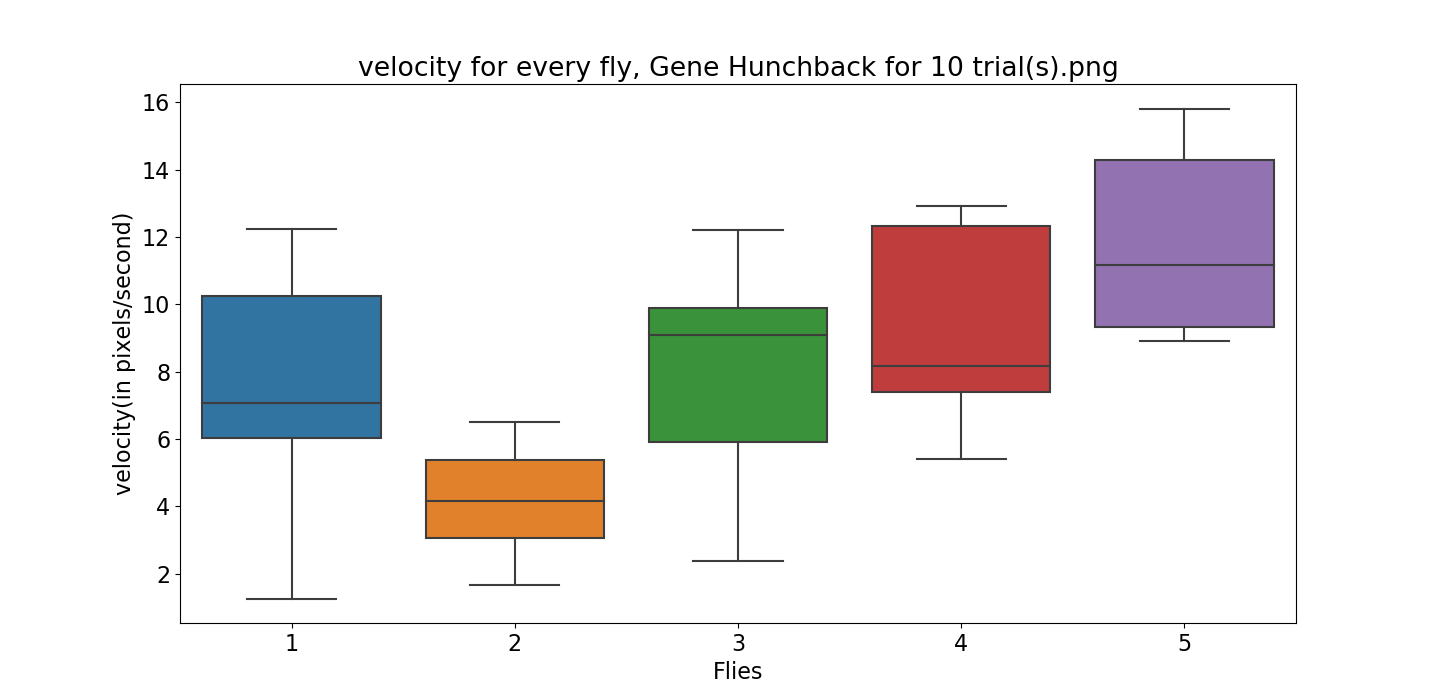
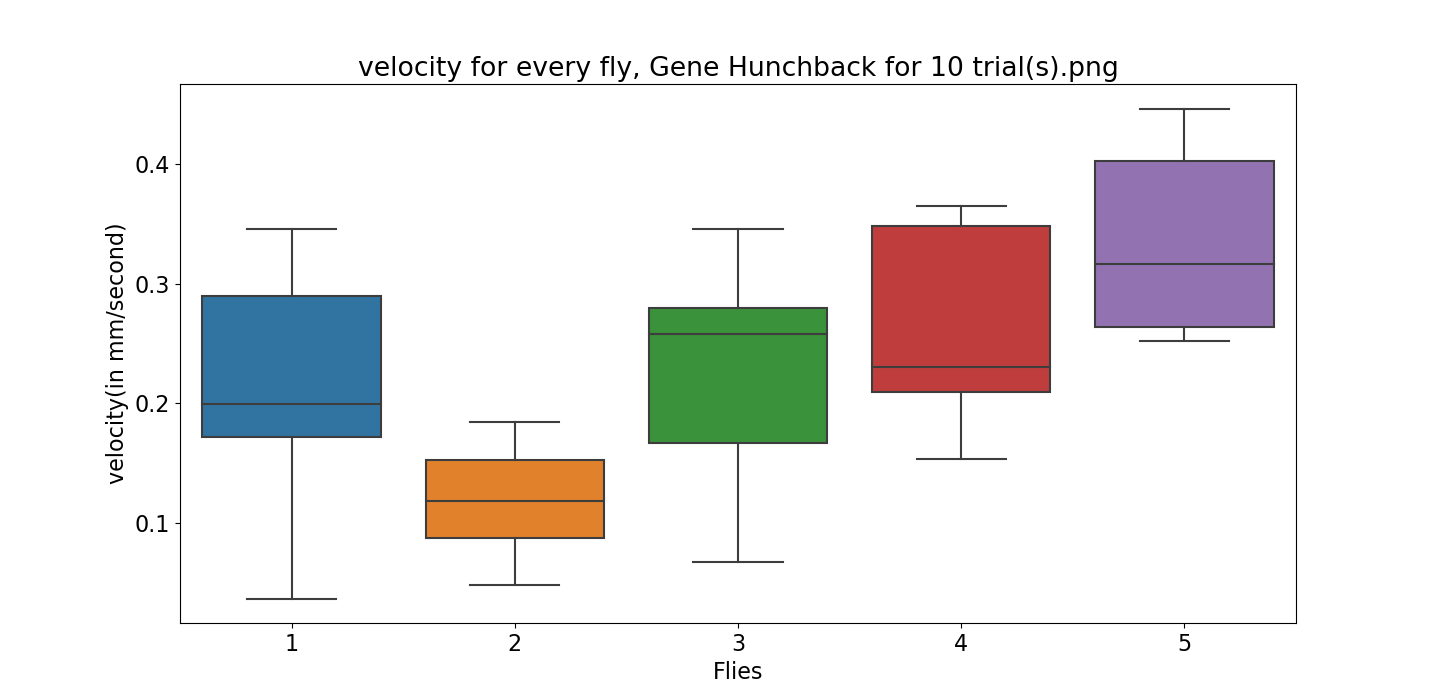
ADD velocity images in mm/s and ADD comments in the code

diff --git a/mainAnalysis.py b/mainAnalysis.py
@@ -23,13 +23,15 @@ box4_size = [600, 700, 300, 1050]
 box5_size = [770, 870, 300, 1050]
 
 # average size of the lanes (in pixels)
-size_1_x = np.mean([box1_size[1]-box1_size[0], 
+# this is used to calculate the velocity in mm/s instead of 
+# pixels/s, which is a more informative measure 
+size_dorsal_x = np.mean([box1_size[1]-box1_size[0], 
                       box2_size[1]-box2_size[0], 
                       box3_size[1]-box3_size[0], 
                       box4_size[1]-box4_size[0], 
                       box5_size[1]-box5_size[0]])
 
-size_1_y = np.mean([box1_size[3]-box1_size[2], 
+size_dorsal_y = np.mean([box1_size[3]-box1_size[2], 
                       box2_size[3]-box2_size[2], 
                       box3_size[3]-box3_size[2], 
                       box4_size[3]-box4_size[2], 
@@ -60,13 +62,15 @@ box4_size = [615, 730, 300, 1050]
 box5_size = [785, 890, 300, 1050]
 
 # average size of the lanes (in pixels)
-size_2_x = np.mean([box1_size[1]-box1_size[0], 
+# this is used to calculate the velocity in mm/s instead of 
+# pixels/s, which is a more informative measure 
+size_gfp_x = np.mean([box1_size[1]-box1_size[0], 
                       box2_size[1]-box2_size[0], 
                       box3_size[1]-box3_size[0], 
                       box4_size[1]-box4_size[0], 
                       box5_size[1]-box5_size[0]])
 
-size_2_y = np.mean([box1_size[3]-box1_size[2], 
+size_gfp_y = np.mean([box1_size[3]-box1_size[2], 
                       box2_size[3]-box2_size[2], 
                       box3_size[3]-box3_size[2], 
                       box4_size[3]-box4_size[2], 
@@ -96,13 +100,15 @@ box4_size = [550, 680, 300, 1050]
 box5_size = [730, 835, 300, 1050]
 
 # average size of the lanes (in pixels)
-size_3_x = np.mean([box1_size[1]-box1_size[0], 
+# this is used to calculate the velocity in mm/s instead of 
+# pixels/s, which is a more informative measure 
+size_eagdn_x = np.mean([box1_size[1]-box1_size[0], 
                       box2_size[1]-box2_size[0], 
                       box3_size[1]-box3_size[0], 
                       box4_size[1]-box4_size[0], 
                       box5_size[1]-box5_size[0]])
 
-size_3_y = np.mean([box1_size[3]-box1_size[2], 
+size_eagdn_y = np.mean([box1_size[3]-box1_size[2], 
                       box2_size[3]-box2_size[2], 
                       box3_size[3]-box3_size[2], 
                       box4_size[3]-box4_size[2], 
@@ -132,13 +138,15 @@ box4_size = [595, 715, 300, 1075]
 box5_size = [760, 880, 300, 1070]
 
 # average size of the lanes (in pixels)
-size_4_x = np.mean([box1_size[1]-box1_size[0], 
+# this is used to calculate the velocity in mm/s instead of 
+# pixels/s, which is a more informative measure 
+size_tnt_x = np.mean([box1_size[1]-box1_size[0], 
                       box2_size[1]-box2_size[0], 
                       box3_size[1]-box3_size[0], 
                       box4_size[1]-box4_size[0], 
                       box5_size[1]-box5_size[0]])
 
-size_4_y = np.mean([box1_size[3]-box1_size[2], 
+size_tnt_y = np.mean([box1_size[3]-box1_size[2], 
                       box2_size[3]-box2_size[2], 
                       box3_size[3]-box3_size[2], 
                       box4_size[3]-box4_size[2], 
@@ -168,13 +176,15 @@ box4_size = [590, 715, 305, 1075]
 box5_size = [760, 880, 305, 1075]
 
 # average size of the lanes (in pixels)
-size_5_x = np.mean([box1_size[1]-box1_size[0], 
+# this is used to calculate the velocity in mm/s instead of 
+# pixels/s, which is a more informative measure 
+size_shalrna_x = np.mean([box1_size[1]-box1_size[0], 
                       box2_size[1]-box2_size[0], 
                       box3_size[1]-box3_size[0], 
                       box4_size[1]-box4_size[0], 
                       box5_size[1]-box5_size[0]])
 
-size_5_y = np.mean([box1_size[3]-box1_size[2], 
+size_shalrna_y = np.mean([box1_size[3]-box1_size[2], 
                       box2_size[3]-box2_size[2], 
                       box3_size[3]-box3_size[2], 
                       box4_size[3]-box4_size[2], 
@@ -204,12 +214,14 @@ box4_size = [675, 795, 270, 1035]
 box5_size = [] # No Flies
 
 # average size of the lanes (in pixels)
-size_6_x = np.mean([box1_size[1]-box1_size[0], 
+# this is used to calculate the velocity in mm/s instead of 
+# pixels/s, which is a more informative measure 
+size_imptnt_x = np.mean([box1_size[1]-box1_size[0], 
                       box2_size[1]-box2_size[0], 
                       box3_size[1]-box3_size[0], 
                       box4_size[1]-box4_size[0]])
 
-size_6_y = np.mean([box1_size[3]-box1_size[2], 
+size_imptnt_y = np.mean([box1_size[3]-box1_size[2], 
                       box2_size[3]-box2_size[2], 
                       box3_size[3]-box3_size[2], 
                       box4_size[3]-box4_size[2]])
@@ -238,13 +250,15 @@ box4_size = [565, 685, 300, 1050]
 box5_size = [730, 845, 300, 1050]
 
 # average size of the lanes (in pixels)
-size_7_x = np.mean([box1_size[1]-box1_size[0], 
+# this is used to calculate the velocity in mm/s instead of 
+# pixels/s, which is a more informative measure 
+size_hunchback_x = np.mean([box1_size[1]-box1_size[0], 
                       box2_size[1]-box2_size[0], 
                       box3_size[1]-box3_size[0], 
                       box4_size[1]-box4_size[0], 
                       box5_size[1]-box5_size[0]])
 
-size_7_y = np.mean([box1_size[3]-box1_size[2], 
+size_hunchback_y = np.mean([box1_size[3]-box1_size[2], 
                       box2_size[3]-box2_size[2], 
                       box3_size[3]-box3_size[2], 
                       box4_size[3]-box4_size[2], 
@@ -253,21 +267,12 @@ size_7_y = np.mean([box1_size[3]-box1_size[2],
 # to generate the .csv files with the centroids and head positions
 #crop.analyzeImages(path, name_type, box1_size, box2_size, box3_size, box4_size, box5_size)
 
-# average size of all the lanes, for all the different genetic strains
-# this is an approximation used to calculate the velocity in mm/s instead of 
-# pixels/s, which is a more informative measure 
-avg_size_x = np.mean([size_1_x, size_2_x, size_3_x, size_4_x, size_5_x, size_6_x, size_7_x])
-avg_size_y = np.mean([size_1_y, size_2_y, size_3_y, size_4_y, size_5_y, size_6_y, size_7_y])
-
-
-## Create the plots with the flies velocities 
-
-plots.velocity_analysis("Dorsal",10)
-plots.velocity_analysis("GFP",10)
-plots.velocity_analysis("EagDN",10)
-plots.velocity_analysis("TNT",10)
-plots.velocity_analysis("ShalRNA",10)
-plots.velocity_analysis("IMPTNT",10)
-plots.velocity_analysis("Hunchback",10)
-
+## Create the plots for the flies' velocities 
+plots.velocity_analysis("Dorsal",10, size_dorsal_x, size_dorsal_y)
+plots.velocity_analysis("GFP",10, size_gfp_x, size_gfp_y)
+plots.velocity_analysis("EagDN",10, size_eagdn_x, size_eagdn_y)
+plots.velocity_analysis("TNT",10, size_tnt_x, size_tnt_y)
+plots.velocity_analysis("ShalRNA",10, size_shalrna_x, size_shalrna_y)
+plots.velocity_analysis("IMPTNT",10, size_imptnt_x, size_imptnt_y)
+plots.velocity_analysis("Hunchback",10, size_hunchback_x, size_hunchback_y)
 

diff --git a/plots.py b/plots.py
@@ -23,7 +23,7 @@ def reformatCsv(folder, flies_to_remove):
     heads.to_csv(folder+ "heads_sorted.csv", index=False)
     
 
-def velocity_calculator(df_centroids):
+def velocity_calculator(df_centroids, pixels_x, pixels_y):
     """Function that calculates the velocity of each fly.
     'df' is the data frame that contains all the detected centroids"""
     
@@ -54,13 +54,18 @@ def velocity_calculator(df_centroids):
     # calculate the velocities, by using the centroids and the calculated times
     for t in range(len(time_points)): 
         if ((t+1)>=len(time_points))==False:
+            
             first_centroid_x = df_centroids[flies_x].iloc[time_points[t]]
             second_centroid_x = df_centroids[flies_x].iloc[time_points[t+1]]
-            diff_x=second_centroid_x-first_centroid_x
+            # we find the distance covered  in x and convert it in mm
+            size_lane_x = 3.5
+            diff_x=(second_centroid_x-first_centroid_x)*(size_lane_x/pixels_x)
 
             first_centroid_y = df_centroids[flies_y].iloc[time_points[t]]
             second_centroid_y = df_centroids[flies_y].iloc[time_points[t+1]]
-            diff_y=second_centroid_y-first_centroid_y
+            # we find the distance covered in y and convert it in mm
+            size_lane_y = 22
+            diff_y=(second_centroid_y-first_centroid_y)*(size_lane_y/pixels_y)
 
             v_x.append(diff_x/time)
             v_y.append(diff_y/time)
@@ -81,13 +86,13 @@ def velocity_boxplots(df, velocity_ID, gene_name, num_trials):
     plt.rcParams['font.size'] = 16
     ax=sns.boxplot(x="fly", y=velocity_ID, data=df)
     plt.xlabel('Flies')
-    plt.ylabel(velocity_ID+"(in pixels/second)")
+    plt.ylabel(velocity_ID+"(in mm/second)")
     plt.title('%s for every fly, Gene %s for %s trial(s).png' %(velocity_ID, gene_name , num_trials))
     plt.savefig('Boxplot_%s_%s for %s trial(s).png' %(gene_name, velocity_ID, num_trials))
     #plt.show()
 
 
-def velocity_analysis(gene_name, num_trials):
+def velocity_analysis(gene_name, num_trials, pixels_x, pixels_y):
     """Function that calls the 'velocity_boxplots' and generate the plots for all the trials for a specific gene strain"""
     
     flies = np.array([1,2,3,4,5])
@@ -102,7 +107,7 @@ def velocity_analysis(gene_name, num_trials):
         if trial==0:
             centroids = pd.read_csv("Behavior_Flies_selected/" + str(gene_name)+"/"+str(gene_name)+"_"+str(trial+1)+"/centroids_sorted.csv")
 
-            velocity_per_fly, v_x, v_y = velocity_calculator(centroids)
+            velocity_per_fly, v_x, v_y = velocity_calculator(centroids, pixels_x, pixels_y)
             
             for speeds in range(0,len(velocity_per_fly),len(v_x)):
                     all_velocities.append(np.nanmean(velocity_per_fly[0+speeds:speeds+len(v_x)]))
@@ -112,7 +117,7 @@ def velocity_analysis(gene_name, num_trials):
         else:
             centroids = pd.read_csv("Behavior_Flies_selected/" + str(gene_name)+"/"+str(gene_name)+"_"+str(trial+1)+"/centroids_sorted.csv")
 
-            velocity_per_fly, v_x, v_y = velocity_calculator(centroids)
+            velocity_per_fly, v_x, v_y = velocity_calculator(centroids, pixels_x, pixels_y)
 
             for speeds in range(0,len(velocity_per_fly),len(v_x)):
                 all_velocities.append(np.nanmean(velocity_per_fly[0+speeds:speeds+len(v_x)]))

diff --git a/cropImages.py b/cropImages.py
@@ -2,14 +2,11 @@ import glob
 
 import pandas as pd
 import numpy as np
-from numpy import linalg as LA
-
-import matplotlib.pyplot as plt
-import seaborn as sns
 
 import cv2
 
 def findCentroid(img, file):
+    """Function that detects the centroid and the head position of the fly by applying image processing techniques."""
     
     print(file)
     
@@ -158,8 +155,10 @@ def findCentroid(img, file):
     return x_centroid, y_centroid, x_head, y_head
 
 
-
 def analyzeImages(path, name_type, box1_size, box2_size, box3_size, box4_size, box5_size):
+    """Function that performs the images' analysis, for which centroids and head positions are found.
+    It stores all the points in csv files and creates videos with indicated the position of the centroid and head on the fly's body.
+    """
     
     folders = [f for f in sorted(glob.glob(path + "/**"))]
     
